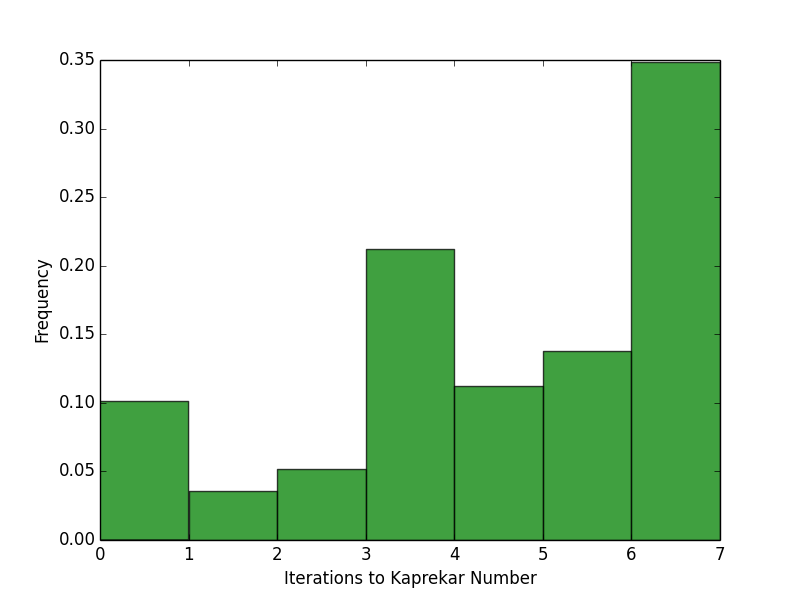
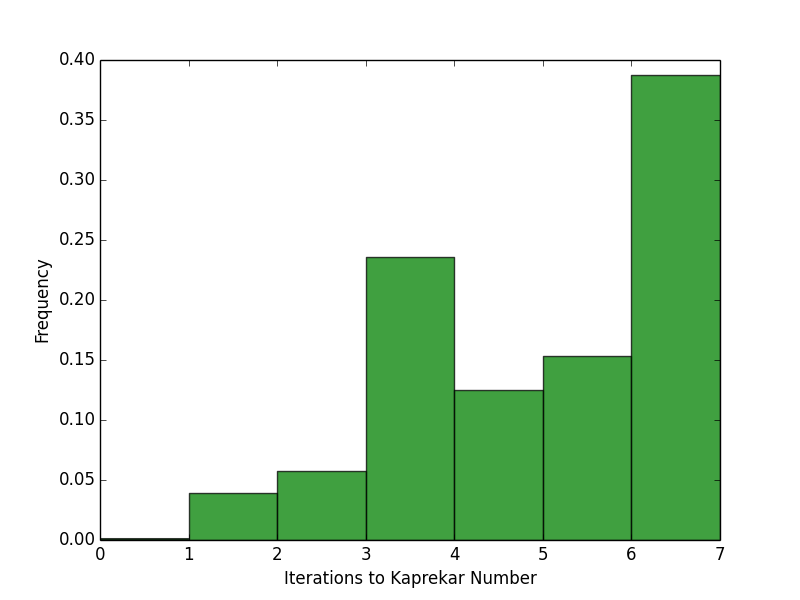
fixed graph

diff --git a/kaprekar_test.py b/kaprekar_test.py
@@ -22,7 +22,7 @@ def get_digits(num):
   return [i for i in str(num)]
 
 KAPREKAR_NUM = 6174
-counts = np.zeros(10000)
+counts = np.zeros(9000)
 hist = defaultdict(lambda: 0)
 for i in range(1000,10000):
   if (i % 1111 == 0):
@@ -31,7 +31,7 @@ for i in range(1000,10000):
   while (diff != KAPREKAR_NUM):
     diff = find_high(diff) - find_low(diff)
     count += 1
-  counts[i] = count
+  counts[1000-i] = count
 
 plt.hist(counts, 7, normed=1, facecolor='g', alpha=0.75)
 plt.xlabel('Iterations to Kaprekar Number')
